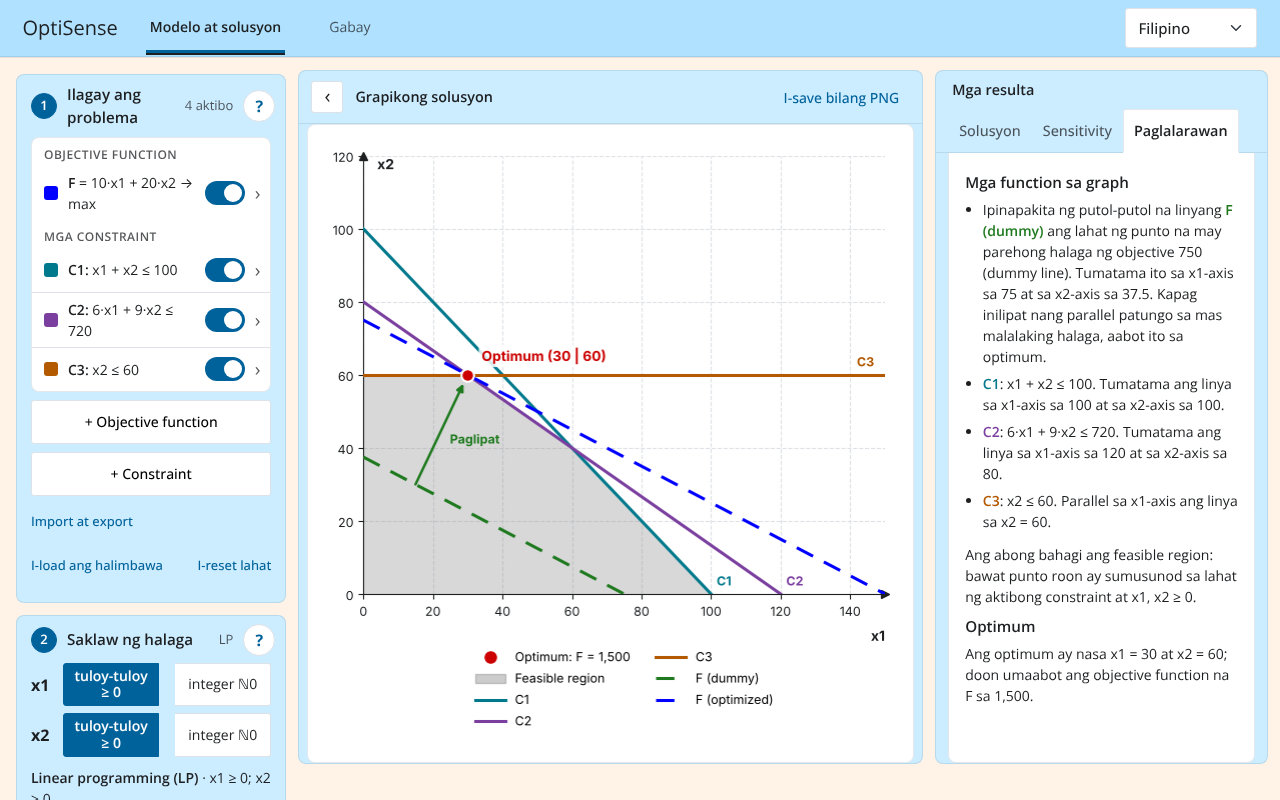
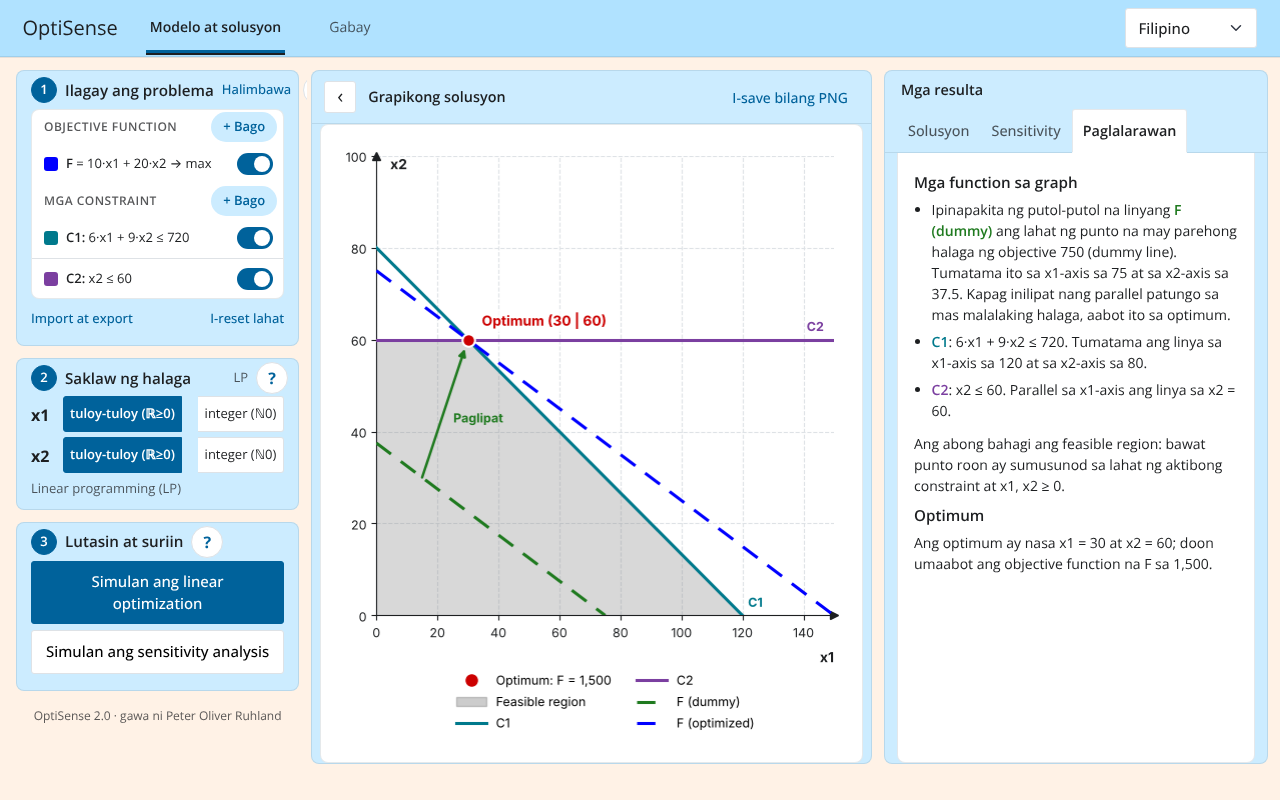
Compact step 1: example link in header, + New in headings, limits 2/5; wider side columns
- 'Example' link in the step-1 header; Import & export and Reset all stay below the list
- '+ New' next to the Objective function / Constraints headings; hidden at 2 objectives / 5 constraints
- No counters in headings or step headers; no row chevrons; smaller formula text
- Value range: two compact rows 'continuous (R>=0)' / 'integer (N0)' and the problem type below
- Textbook example reduced to two constraints (raw material, assembly); same optimum
- Graph narrower, results and steps columns wider; tighter spacing on screens up to 820 px high

Claude-Session: https://claude.ai/code/session_017cmozmPaduFyfABBmjsSoP

diff --git a/shiny_files/www/optisense.css b/shiny_files/www/optisense.css
@@ -19,8 +19,8 @@
   --radius-modal: 0.5rem;
   --space-card: 1rem;
   --touch-target: 44px;
-  --sidebar-width: clamp(268px, 23vw, 320px);
-  --results-width: clamp(296px, 26vw, 380px);
+  --sidebar-width: clamp(284px, 24vw, 340px);
+  --results-width: clamp(320px, 30vw, 460px);
 
   --bs-primary: #00629b;
   --bs-primary-rgb: 0, 98, 155;
@@ -242,3 +242,35 @@ body { background: var(--surface-page); color: var(--ink); }
   background: var(--surface-content); color: var(--ink); font-size: 1.25rem; line-height: 1; padding: 0 0 2px; font-weight: 400; }
 .os-sidebar-btn:hover { border-color: var(--primary); color: var(--primary); }
 .os-sidebar-btn:focus-visible { outline: 3px solid var(--primary); outline-offset: 2px; }
+
+/* ---- step 1: compact list with "+ New" in the section headings ---- */
+.os-step-title { white-space: nowrap; }
+.os-head-link { margin-left: auto; min-height: 32px; font-size: 0.8125rem; }
+.os-head-link + .os-help { margin-left: 4px; }
+.os-list-label { display: flex; align-items: center; justify-content: space-between; gap: 8px; min-height: 38px; padding: 4px 6px 2px 12px; }
+.os-add { flex: none; display: inline-flex; align-items: center; height: 30px; padding: 0 12px; border: 0; border-radius: 15px;
+  background: var(--surface-panel); color: var(--primary); font-size: 0.8125rem; font-weight: 600; letter-spacing: 0; text-transform: none; }
+.os-add:hover { background: var(--surface-group); }
+.os-add:focus-visible { outline: 3px solid var(--primary); outline-offset: 2px; }
+.os-row { gap: 8px; padding: 3px 10px 3px 12px; }
+.os-formula { font-size: 0.8125rem; }
+.os-switch { width: 36px; height: 22px; }
+.os-switch span::after { width: 16px; height: 16px; }
+.os-switch input:checked + span::after { transform: translateX(14px); }
+.os-links { justify-content: space-between; margin-top: -2px; }
+.os-links .os-link { min-height: 36px; }
+.os-step-head { min-height: 42px; padding-top: 5px; padding-bottom: 5px; gap: 8px; }
+.os-step-body { gap: 6px; }
+/* ---- step 2: two compact rows ---- */
+#os-step-2 .os-step-body { padding-bottom: 10px; }
+.os-vt-row .radio-inline input + span { min-height: 36px; font-size: 0.8125rem; padding: 2px 6px; white-space: nowrap; }
+.os-type { font-size: 0.8125rem; color: var(--ink-muted); margin: 0; }
+/* short laptop screens: slightly lower list rows so step 3 stays in view (tablets keep 44 px) */
+@media (max-height: 820px) and (min-width: 1024px) {
+  .os-row { min-height: 40px; }
+  .os-list-label { min-height: 32px; padding-top: 2px; }
+  .os-step-head { min-height: 38px; padding-top: 3px; padding-bottom: 3px; }
+  .os-step-body { padding-bottom: 10px; }
+  .os-links .os-link { min-height: 32px; }
+  .bslib-sidebar-layout > .sidebar > .sidebar-content { padding-top: 12px; }
+}

diff --git a/shiny_files/www/optisense.js b/shiny_files/www/optisense.js
@@ -56,6 +56,8 @@
     if (row) { rowActivate(row); return; }
     var help = el.closest("[data-help]");
     if (help) { Shiny.setInputValue("help_topic", { topic: help.getAttribute("data-help"), n: Date.now() }, { priority: "event" }); return; }
+    var add = el.closest("[data-add]");
+    if (add) { Shiny.setInputValue("add_click", { kind: add.getAttribute("data-add"), n: Date.now() }, { priority: "event" }); return; }
     var tg = el.closest("[data-sidebar-toggle]");
     if (tg) { var native = document.querySelector(".bslib-sidebar-layout > .collapse-toggle"); if (native) native.click(); [50, 400].forEach(function (d) { setTimeout(syncSidebarBtn, d); }); return; }
     var g = el.closest("[data-guide]");

diff --git a/shiny_files/i18n.py b/shiny_files/i18n.py
@@ -45,6 +45,10 @@ TEXT = {
     # ------------------------------------------------------------------ step 2
     "step2": {"en": "Value range", "de": "Wertebereich", "fil": "Saklaw ng halaga"},
     "continuous": {"en": "continuous ≥ 0", "de": "stetig ≥ 0", "fil": "tuloy-tuloy ≥ 0"},
+    "continuous_short": {"en": "continuous (ℝ≥0)", "de": "stetig (ℝ≥0)", "fil": "tuloy-tuloy (ℝ≥0)"},
+    "integer_short": {"en": "integer (ℕ0)", "de": "ganzzahlig (ℕ0)", "fil": "integer (ℕ0)"},
+    "example_short": {"en": "Example", "de": "Beispiel", "fil": "Halimbawa"},
+    "add_new": {"en": "+ New", "de": "+ Neu", "fil": "+ Bago"},
     "integer": {"en": "integer ℕ0", "de": "ganzzahlig ℕ0", "fil": "integer ℕ0"},
     "type_LP": {"en": "Linear programming (LP)", "de": "Lineare Optimierung (LP)", "fil": "Linear programming (LP)"},
     "type_ILP": {"en": "Integer linear programming (ILP)", "de": "Ganzzahlige lineare Optimierung (ILP)",
@@ -327,57 +331,54 @@ GUIDE = {
         "en": """<p>The example comes from Domschke et al., <i>Einführung in Operations Research</i>, 9th edition (2015).</p>
 <p>A company makes two products, P1 and P2. Production is limited by a shared machine, a perishable raw material (720 units in stock) and the assembly capacity for P2. The contribution margin is 10 per unit of P1 and 20 per unit of P2.</p>
 <ul><li>Objective function: F = 10·x1 + 20·x2 → max</li>
-<li>C1 (machine): x1 + x2 ≤ 100</li>
-<li>C2 (raw material): 6·x1 + 9·x2 ≤ 720</li>
-<li>C3 (assembly P2): x2 ≤ 60</li>
+<li>C1 (raw material): 6·x1 + 9·x2 ≤ 720</li>
+<li>C2 (assembly P2): x2 ≤ 60</li>
 <li>x1, x2 ≥ 0, both continuous</li></ul>
-<p>The optimum is x1 = 30, x2 = 60 with F = 1,500. C2 and C3 are binding.</p>""",
+<p>The machine constraint of the textbook (x1 + x2 ≤ 100) is left out here because it does not limit the optimum. The optimum is x1 = 30, x2 = 60 with F = 1,500; both constraints are binding.</p>""",
         "de": """<p>Das Beispiel stammt aus Domschke et al., <i>Einführung in Operations Research</i>, 9. Auflage (2015).</p>
 <p>Ein Unternehmen stellt zwei Produkte her, P1 und P2. Die Produktion ist begrenzt durch eine gemeinsam genutzte Maschine, einen verderblichen Rohstoff (720 Einheiten auf Lager) und die Montagekapazität für P2. Der Deckungsbeitrag beträgt 10 je Einheit P1 und 20 je Einheit P2.</p>
 <ul><li>Zielfunktion: F = 10·x1 + 20·x2 → max</li>
-<li>NB1 (Maschine): x1 + x2 ≤ 100</li>
-<li>NB2 (Rohstoff): 6·x1 + 9·x2 ≤ 720</li>
-<li>NB3 (Montage P2): x2 ≤ 60</li>
+<li>NB1 (Rohstoff): 6·x1 + 9·x2 ≤ 720</li>
+<li>NB2 (Montage P2): x2 ≤ 60</li>
 <li>x1, x2 ≥ 0, beide stetig</li></ul>
-<p>Das Optimum liegt bei x1 = 30, x2 = 60 mit F = 1.500. NB2 und NB3 sind bindend.</p>""",
+<p>Die Maschinen-Nebenbedingung aus dem Lehrbuch (x1 + x2 ≤ 100) ist hier weggelassen, weil sie das Optimum nicht begrenzt. Das Optimum liegt bei x1 = 30, x2 = 60 mit F = 1.500; beide Nebenbedingungen sind bindend.</p>""",
         "fil": """<p>Mula ang halimbawa sa Domschke et al., <i>Einführung in Operations Research</i>, ika-9 na edisyon (2015).</p>
 <p>Gumagawa ang isang kompanya ng dalawang produkto, P1 at P2. Nililimitahan ang produksyon ng isang makinang pinagsasaluhan, isang raw material na madaling masira (720 unit ang nasa stock) at ng kapasidad sa pag-assemble ng P2. Ang contribution margin ay 10 bawat unit ng P1 at 20 bawat unit ng P2.</p>
 <ul><li>Objective function: F = 10·x1 + 20·x2 → max</li>
-<li>C1 (makina): x1 + x2 ≤ 100</li>
-<li>C2 (raw material): 6·x1 + 9·x2 ≤ 720</li>
-<li>C3 (assembly ng P2): x2 ≤ 60</li>
+<li>C1 (raw material): 6·x1 + 9·x2 ≤ 720</li>
+<li>C2 (assembly ng P2): x2 ≤ 60</li>
 <li>x1, x2 ≥ 0, parehong tuloy-tuloy</li></ul>
-<p>Ang optimum ay x1 = 30, x2 = 60 na may F = 1,500. Binding ang C2 at C3.</p>""",
+<p>Hindi isinama rito ang constraint ng makina mula sa aklat (x1 + x2 ≤ 100) dahil hindi nito nililimitahan ang optimum. Ang optimum ay x1 = 30, x2 = 60 na may F = 1,500; parehong binding ang dalawang constraint.</p>""",
     },
     "steps": {
         "en": """<h3>1 · Enter problem</h3>
-<p>Add one objective function and your constraints. Each appears as a row with its colour from the graph. Tap a row to change or delete it; the switch decides whether it is used. Only one objective function can be active at a time.</p>
+<p>Use “+ New” next to the headings to add up to two objective functions and up to five constraints. Each appears as a row with its colour from the graph. Tap a row to change or delete it; the switch decides whether it is used. Only one objective function is active at a time. “Example” at the top loads the textbook example.</p>
 <h3>2 · Value range</h3>
 <p>Choose once for x1 and x2 whether they are continuous or integer. OptiSense shows the resulting problem type (LP, ILP or MILP).</p>
 <h3>3 · Solve &amp; analyse</h3>
 <p>The graph updates as soon as you change something. Run the linear optimization to find the optimum; then run the sensitivity analysis. Results appear in the tabs Solution, Sensitivity and Description. Any change to the problem clears old results.</p>
 <h3>Tips</h3>
-<ul><li>“Load example” fills in the textbook example.</li>
+<ul><li>“Example” fills in the textbook example.</li>
 <li>The ? next to each step opens the matching part of this guide.</li>
 <li>The language can be switched at any time at the top right; your entries are kept.</li></ul>""",
         "de": """<h3>1 · Problem eingeben</h3>
-<p>Füge eine Zielfunktion und deine Nebenbedingungen hinzu. Jede erscheint als Zeile mit ihrer Farbe aus dem Graphen. Tippe eine Zeile an, um sie zu ändern oder zu löschen; der Schalter bestimmt, ob sie verwendet wird. Es kann immer nur eine Zielfunktion aktiv sein.</p>
+<p>Mit „+ Neu“ neben den Überschriften legst du bis zu zwei Zielfunktionen und bis zu fünf Nebenbedingungen an. Jede erscheint als Zeile mit ihrer Farbe aus dem Graphen. Tippe eine Zeile an, um sie zu ändern oder zu löschen; der Schalter bestimmt, ob sie verwendet wird. Es ist immer nur eine Zielfunktion aktiv. „Beispiel“ oben lädt das Lehrbuchbeispiel.</p>
 <h3>2 · Wertebereich</h3>
 <p>Lege einmal für x1 und x2 fest, ob sie stetig oder ganzzahlig sind. OptiSense zeigt den daraus folgenden Problemtyp (LP, ILP oder MILP).</p>
 <h3>3 · Lösen &amp; analysieren</h3>
 <p>Der Graph aktualisiert sich, sobald du etwas änderst. Starte die lineare Optimierung, um das Optimum zu finden, danach die Sensitivitätsanalyse. Die Ergebnisse stehen in den Reitern Lösung, Sensitivität und Beschreibung. Jede Änderung am Problem verwirft alte Ergebnisse.</p>
 <h3>Tipps</h3>
-<ul><li>„Beispiel laden“ trägt das Lehrbuchbeispiel ein.</li>
+<ul><li>„Beispiel“ trägt das Lehrbuchbeispiel ein.</li>
 <li>Das ? neben jedem Schritt öffnet den passenden Teil dieser Anleitung.</li>
 <li>Die Sprache lässt sich jederzeit oben rechts umstellen; deine Eingaben bleiben erhalten.</li></ul>""",
         "fil": """<h3>1 · Ilagay ang problema</h3>
-<p>Magdagdag ng isang objective function at ng iyong mga constraint. Lalabas ang bawat isa bilang hilera na may kulay nito mula sa graph. I-tap ang hilera para baguhin o burahin ito; ang switch ang nagpapasya kung gagamitin ito. Isang objective function lang ang maaaring aktibo sa isang pagkakataon.</p>
+<p>Gamitin ang “+ Bago” sa tabi ng mga heading para magdagdag ng hanggang dalawang objective function at hanggang limang constraint. Lalabas ang bawat isa bilang hilera na may kulay nito mula sa graph. I-tap ang hilera para baguhin o burahin ito; ang switch ang nagpapasya kung gagamitin ito. Isang objective function lang ang aktibo sa isang pagkakataon. Nilo-load ng “Halimbawa” sa itaas ang halimbawa mula sa aklat.</p>
 <h3>2 · Saklaw ng halaga</h3>
 <p>Piliin nang isang beses para sa x1 at x2 kung tuloy-tuloy o integer ang mga ito. Ipapakita ng OptiSense ang uri ng problemang lalabas (LP, ILP o MILP).</p>
 <h3>3 · Lutasin at suriin</h3>
 <p>Nag-a-update ang graph sa sandaling may baguhin ka. Simulan ang linear optimization para hanapin ang optimum; pagkatapos ay ang sensitivity analysis. Lalabas ang mga resulta sa mga tab na Solusyon, Sensitivity at Paglalarawan. Binubura ng anumang pagbabago sa problema ang mga lumang resulta.</p>
 <h3>Mga tip</h3>
-<ul><li>Pinupunan ng “I-load ang halimbawa” ang halimbawa mula sa aklat.</li>
+<ul><li>Pinupunan ng “Halimbawa” ang halimbawa mula sa aklat.</li>
 <li>Binubuksan ng ? sa tabi ng bawat hakbang ang katugmang bahagi ng gabay na ito.</li>
 <li>Mapapalitan ang wika anumang oras sa kanang itaas; mananatili ang iyong mga input.</li></ul>""",
     },
@@ -407,7 +408,10 @@ DEFAULT_NAMES = {
 }
 
 # Constraint names of the textbook example, per language
-EXAMPLE_NAMES = {"en": ["C1", "C2", "C3"], "de": ["NB1", "NB2", "NB3"], "fil": ["C1", "C2", "C3"]}
+EXAMPLE_NAMES = {"en": ["C1", "C2"], "de": ["NB1", "NB2"], "fil": ["C1", "C2"]}
+
+MAX_OBJECTIVES = 2
+MAX_CONSTRAINTS = 5
 
 
 def norm_lang(lang):

diff --git a/shiny_files/server.py b/shiny_files/server.py
@@ -6,7 +6,7 @@ from shiny import reactive, render, req, ui
 
 import lp_core
 import plotting
-from i18n import DEFAULT_NAMES, EXAMPLE_NAMES, GUIDE_ORDER, fmt_num, guide, norm_lang, t
+from i18n import DEFAULT_NAMES, EXAMPLE_NAMES, GUIDE_ORDER, MAX_CONSTRAINTS, MAX_OBJECTIVES, fmt_num, guide, norm_lang, t
 
 
 def server(input, output, session):
@@ -93,15 +93,24 @@ def server(input, output, session):
     @render.ui
     def problem_list():
         lc = lang()
-        rows = [tags.div(tr("objective_function"), class_="os-list-label")]
+
+        def heading(key, kind, count, limit):
+            add = None
+            if count < limit:
+                add_label = tr("add_objective" if kind == "obj" else "add_constraint")
+                add = tags.button(tr("add_new"), type="button", class_="os-add", title=add_label,
+                                  **{"data-add": kind, "aria-label": add_label})
+            return tags.div(tags.span(tr(key)), add, class_="os-list-label")
+
         objs = objectives()
+        rows = [heading("objective_function", "obj", len(objs), MAX_OBJECTIVES)]
         if not objs:
             rows.append(tags.div(tr("no_objective"), class_="os-empty"))
         for obj in objs:
             rows.append(_row("obj", obj, swatch(plotting.OPTIMIZED),
                              HTML(f"<b>{_esc(obj['name'])}</b> = {formula(obj['c1'], obj['c2'], lc)} → {obj['sense']}")))
-        rows.append(tags.div(tr("constraints"), class_="os-list-label"))
         cons = constraints()
+        rows.append(heading("constraints", "con", len(cons), MAX_CONSTRAINTS))
         if not cons:
             rows.append(tags.div(tr("no_constraints"), class_="os-empty"))
         for con in cons:
@@ -120,15 +129,9 @@ def server(input, output, session):
                 tags.span(),
                 class_="os-switch", title=tr("toggle_active"),
             ),
-            tags.span("›", class_="os-chev", **{"aria-hidden": "true"}),
             class_="os-row" + ("" if item["active"] else " is-off"),
             role="button", tabindex="0", title=label, **{"aria-label": label, "data-kind": kind, "data-id": str(item["id"])},
         )
-
-    @render.text
-    def status_step1():
-        n = (1 if active_objective() else 0) + len(active_constraints())
-        return tr("n_functions", n=n)
 
     @reactive.effect
     @reactive.event(input.row_toggle)
@@ -225,14 +228,13 @@ def server(input, output, session):
         return tags.div(tags.ul(*[tags.li(e) for e in errs]), class_="os-errors", role="alert")
 
     @reactive.effect
-    @reactive.event(input.btn_add_obj)
-    def _add_obj():
-        show_function_modal("obj")
-
-    @reactive.effect
-    @reactive.event(input.btn_add_con)
-    def _add_con():
-        show_function_modal("con")
+    @reactive.event(input.add_click)
+    def _add():
+        kind = input.add_click()["kind"]
+        if kind == "obj" and len(objectives()) < MAX_OBJECTIVES:
+            show_function_modal("obj")
+        elif kind == "con" and len(constraints()) < MAX_CONSTRAINTS:
+            show_function_modal("con")
 
     @reactive.effect
     @reactive.event(input.row_click)
@@ -275,6 +277,10 @@ def server(input, output, session):
             errs.append(tr("err_both_zero"))
         if errs:
             modal_errors.set(errs)
+            return
+        if item_id is None and len(items) >= (MAX_OBJECTIVES if kind == "obj" else MAX_CONSTRAINTS):
+            editing.set(None)
+            ui.modal_remove()
             return
         if kind == "obj":
             data = {"name": name, "c1": values["f_a1"], "c2": values["f_a2"], "sense": input.f_sense()}
@@ -344,7 +350,7 @@ def server(input, output, session):
         bounds = []
         for v in ("x1", "x2"):
             bounds.append(f"{v} ∈ ℕ0" if var_types()[v] == "int" else f"{v} ≥ 0")
-        return tags.p(tags.b(tr(f"type_{ptype()}")), " · ", "; ".join(bounds), class_="os-type")
+        return tags.p(tr(f"type_{ptype()}"), class_="os-type")
 
     # ------------------------------------------------------------------ step 3: solve
     @reactive.effect
@@ -373,17 +379,6 @@ def server(input, output, session):
         if not hints:
             return None
         return TagList(*[tags.p(h, class_="os-hint") for h in hints])
-
-    @render.text
-    def status_step3():
-        if sensitivity():
-            return tr("status_analysed")
-        sol = solution()
-        if sol and sol.get("status") == "optimal":
-            return tr("status_solved")
-        if active_objective() and active_constraints():
-            return tr("status_ready")
-        return tr("status_open")
 
     @reactive.effect
     @reactive.event(input.btn_opt)
@@ -662,9 +657,8 @@ def server(input, output, session):
     def load_example():
         names = EXAMPLE_NAMES[lang()]
         load_problem({"name": "F", "c1": 10, "c2": 20, "sense": "max"},
-                     [{"name": names[0], "a1": 1, "a2": 1, "op": "≤", "b": 100},
-                      {"name": names[1], "a1": 6, "a2": 9, "op": "≤", "b": 720},
-                      {"name": names[2], "a1": 0, "a2": 1, "op": "≤", "b": 60}],
+                     [{"name": names[0], "a1": 6, "a2": 9, "op": "≤", "b": 720},
+                      {"name": names[1], "a1": 0, "a2": 1, "op": "≤", "b": 60}],
                      {"x1": "con", "x2": "con"})
         notify("n_example")
 

diff --git a/shiny_files/user_interface.py b/shiny_files/user_interface.py
@@ -14,12 +14,14 @@ def help_button(topic):
                                                                     "aria-label": "Help"})
 
 
-def step_card(number, title_key, status_id, help_topic, *body):
+def step_card(number, title_key, status_id, help_topic, *body, extra=None):
+    status = ui.output_text(status_id, inline=True, container=ui.tags.span).add_class("os-step-status") if status_id else None
     return ui.div(
         ui.div(
             ui.span(str(number), class_="os-num"),
             tr(title_key, class_="os-step-title"),
-            ui.output_text(status_id, inline=True, container=ui.tags.span).add_class("os-step-status"),
+            extra,
+            status,
             help_button(help_topic),
             class_="os-step-head",
         ),
@@ -31,38 +33,32 @@ def step_card(number, title_key, status_id, help_topic, *body):
 
 sidebar = ui.sidebar(
     step_card(
-        1, "step1", "status_step1", "steps",
+        1, "step1", None, "steps",
         ui.output_ui("problem_list"),
         ui.div(
-            ui.input_action_button("btn_add_obj", tr("add_objective_short"), class_="os-btn",
-                                   **{"data-i18n-aria": "add_objective", "aria-label": "Add objective function"}),
-            ui.input_action_button("btn_add_con", tr("add_constraint_short"), class_="os-btn",
-                                   **{"data-i18n-aria": "add_constraint", "aria-label": "Add constraint"}),
-            class_="os-btn-row",
-        ),
-        ui.div(
             ui.input_action_link("btn_import_export", tr("import_export"), class_="os-link"),
-            ui.input_action_link("btn_example", tr("load_example"), class_="os-link"),
             ui.input_action_link("btn_reset", tr("reset_all"), class_="os-link"),
             class_="os-links",
         ),
+        extra=ui.input_action_link("btn_example", tr("example_short"), class_="os-link os-head-link",
+                                 **{"data-i18n-aria": "load_example", "aria-label": "Load example"}),
     ),
     step_card(
         2, "step2", "status_step2", "lp",
         ui.div(
             ui.span("x1", class_="os-var"),
-            ui.input_radio_buttons("vt_x1", None, {"con": tr("continuous"), "int": tr("integer")}, inline=True),
+            ui.input_radio_buttons("vt_x1", None, {"con": tr("continuous_short"), "int": tr("integer_short")}, inline=True),
             class_="os-vt-row",
         ),
         ui.div(
             ui.span("x2", class_="os-var"),
-            ui.input_radio_buttons("vt_x2", None, {"con": tr("continuous"), "int": tr("integer")}, inline=True),
+            ui.input_radio_buttons("vt_x2", None, {"con": tr("continuous_short"), "int": tr("integer_short")}, inline=True),
             class_="os-vt-row",
         ),
         ui.output_ui("problem_type"),
     ),
     step_card(
-        3, "step3", "status_step3", "sens",
+        3, "step3", None, "sens",
         ui.input_action_button("btn_opt", tr("run_opt"), class_="os-btn os-btn-primary", disabled=True),
         ui.input_action_button("btn_sens", tr("run_sens"), class_="os-btn", disabled=True),
         ui.output_ui("solve_hint"),

diff --git a/shiny_files/plotting.py b/shiny_files/plotting.py
@@ -75,7 +75,7 @@ def draw(objective, constraints, var_types, solution, lang, figsize=None):
 
     if objective is None or not constraints:
         _base_axes(ax, 10, 10)
-        ax.text(5, 5, t(lang, "empty_graph"), ha="center", va="center", wrap=True, fontsize=11, color=INK,
+        ax.text(5, 5, t(lang, "empty_graph").replace(" — ", "\n").replace(" – ", "\n"), ha="center", va="center", wrap=True, fontsize=11, color=INK,
                 bbox={"boxstyle": "round,pad=0.6", "fc": "white", "ec": GRID})
         fig.set_layout_engine("tight", pad=1.2)
         return fig

diff --git a/README.md b/README.md
@@ -91,7 +91,7 @@ Then open `http://localhost:8000` in your browser. With Docker: `docker compose 
 ### Features
 
 - **Workflow in three steps** – enter the problem, choose the value range, solve and analyse. Each step shows its status and what is still missing.
-- **One list for all functions** – the objective function and constraints appear as rows with their graph colour; tap a row to edit or delete it, and use the switch to include or exclude it. Only one objective function is active at a time.
+- **One list for all functions** – up to two objective functions and up to five constraints, added with “+ New” next to the headings. Each appears as a row with its graph colour; tap a row to edit or delete it, and use the switch to include or exclude it. Only one objective function is active at a time.
 - **Value range once per variable** – x1 and x2 are set to continuous or integer once; OptiSense derives LP, ILP or MILP.
 - **Exact graph** – the feasible region is computed geometrically (LP polygon, integer lattice points, MILP lines), constraints have fixed colours and are labelled directly in the graph.
 - **Solve** with `scipy.optimize.milp`; infeasible and unbounded problems are explained instead of failing.
